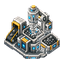
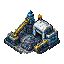
gedrehte bilder

diff --git a/gebaeude.py b/gebaeude.py
@@ -16,7 +16,7 @@ GEBAEUDE_TYPEN = [
     {"name": "Steinmetz", "bild": "steinmetz.png", "farbe": (140, 140, 150), "kuerzel": "S", "taste": "5", "breite": 1, "hoehe": 1},
     {"name": "Marktplatz", "bild": "marktplatz.png", "farbe": (220, 180, 80), "kuerzel": "M", "taste": "6", "breite": 1, "hoehe": 1},
     {"name": "Wohnhaus", "bild": "wohnhaus.png", "farbe": (180, 120, 200), "kuerzel": "W", "taste": "7", "breite": 1, "hoehe": 1},
-    {"name": "Universitaet", "bild": "schule_2x3_kacheln_64x96.png", "farbe": (150, 200, 255), "kuerzel": "L", "taste": "8", "breite": 2, "hoehe": 3},
+    {"name": "Universitaet", "bild": "universitaet.png", "farbe": (150, 200, 255), "kuerzel": "L", "taste": "8", "breite": 2, "hoehe": 3},
     {"name": "Mine", "bild": "mine.png", "farbe": (110, 110, 120), "kuerzel": "M", "taste": "9", "breite": 1, "hoehe": 1},
     {"name": "Strasse", "bild": "strasse.png", "farbe": (90, 90, 95), "kuerzel": "S", "taste": "0", "breite": 1, "hoehe": 1},
     {"name": "Fusionsreaktor", "bild": "fusionsreaktor.png", "farbe": (255, 110, 210), "kuerzel": "F", "taste": "G", "breite": 1, "hoehe": 1},
@@ -30,9 +30,9 @@ GEBAEUDE_TYPEN = [
     # Das Bild nutzt zunächst die vorhandene Mine als Platzhalter. So kann
     # die Klasse die Funktion sofort testen; ein eigenes Bild ist später eine
     # geeignete Schüler-Erweiterung.
-    {"name": "Eisenmine", "bild": "mine.png", "farbe": (210, 130, 90), "kuerzel": "E", "taste": "", "breite": 1, "hoehe": 1},
+    {"name": "Eisenmine", "bild": "mine_eisen.png", "farbe": (210, 130, 90), "kuerzel": "E", "taste": "", "breite": 1, "hoehe": 1},
     # Schülergebäude: Der Park verbessert die Versorgung der Bevölkerung.
-    {"name": "Park", "bild": "park_32x32.png", "farbe": (80, 190, 100), "kuerzel": "P", "taste": "", "breite": 1, "hoehe": 1},
+    {"name": "Park", "bild": "park.png", "farbe": (80, 190, 100), "kuerzel": "P", "taste": "", "breite": 1, "hoehe": 1},
     # Schülergebäude: Der Solarreaktor liefert Energie ohne Kohleverbrauch.
     {"name": "Solarreaktor", "bild": "solareaktor_32x32.png", "farbe": (70, 170, 240), "kuerzel": "S", "taste": "", "breite": 1, "hoehe": 1},
     # ── Fortgeschrittener Kurs (Gegner): Verteidigung, Indizes 21 bis 23 ─────

diff --git a/tests/test_stunde15.py b/tests/test_stunde15.py
@@ -32,7 +32,7 @@ bilder_ordner = os.path.join(os.path.dirname(os.path.dirname(os.path.abspath(__f
 assert len(gebaeude.GEBAEUDE_TYPEN) == len(ressourcen.GEBAEUDE_WIRTSCHAFT)
 assert gebaeude.GEBAEUDE_TYPEN[19]["name"] == "Park"
 assert gebaeude.GEBAEUDE_TYPEN[20]["name"] == "Solarreaktor"
-assert os.path.exists(os.path.join(bilder_ordner, "park_32x32.png"))
+assert os.path.exists(os.path.join(bilder_ordner, "park.png"))
 assert os.path.exists(os.path.join(bilder_ordner, "solareaktor_32x32.png"))
 assert 19 in gebaeude.GEBAEUDE_KATEGORIEN["9"]["typen"]
 assert 20 in gebaeude.GEBAEUDE_KATEGORIEN["6"]["typen"]
